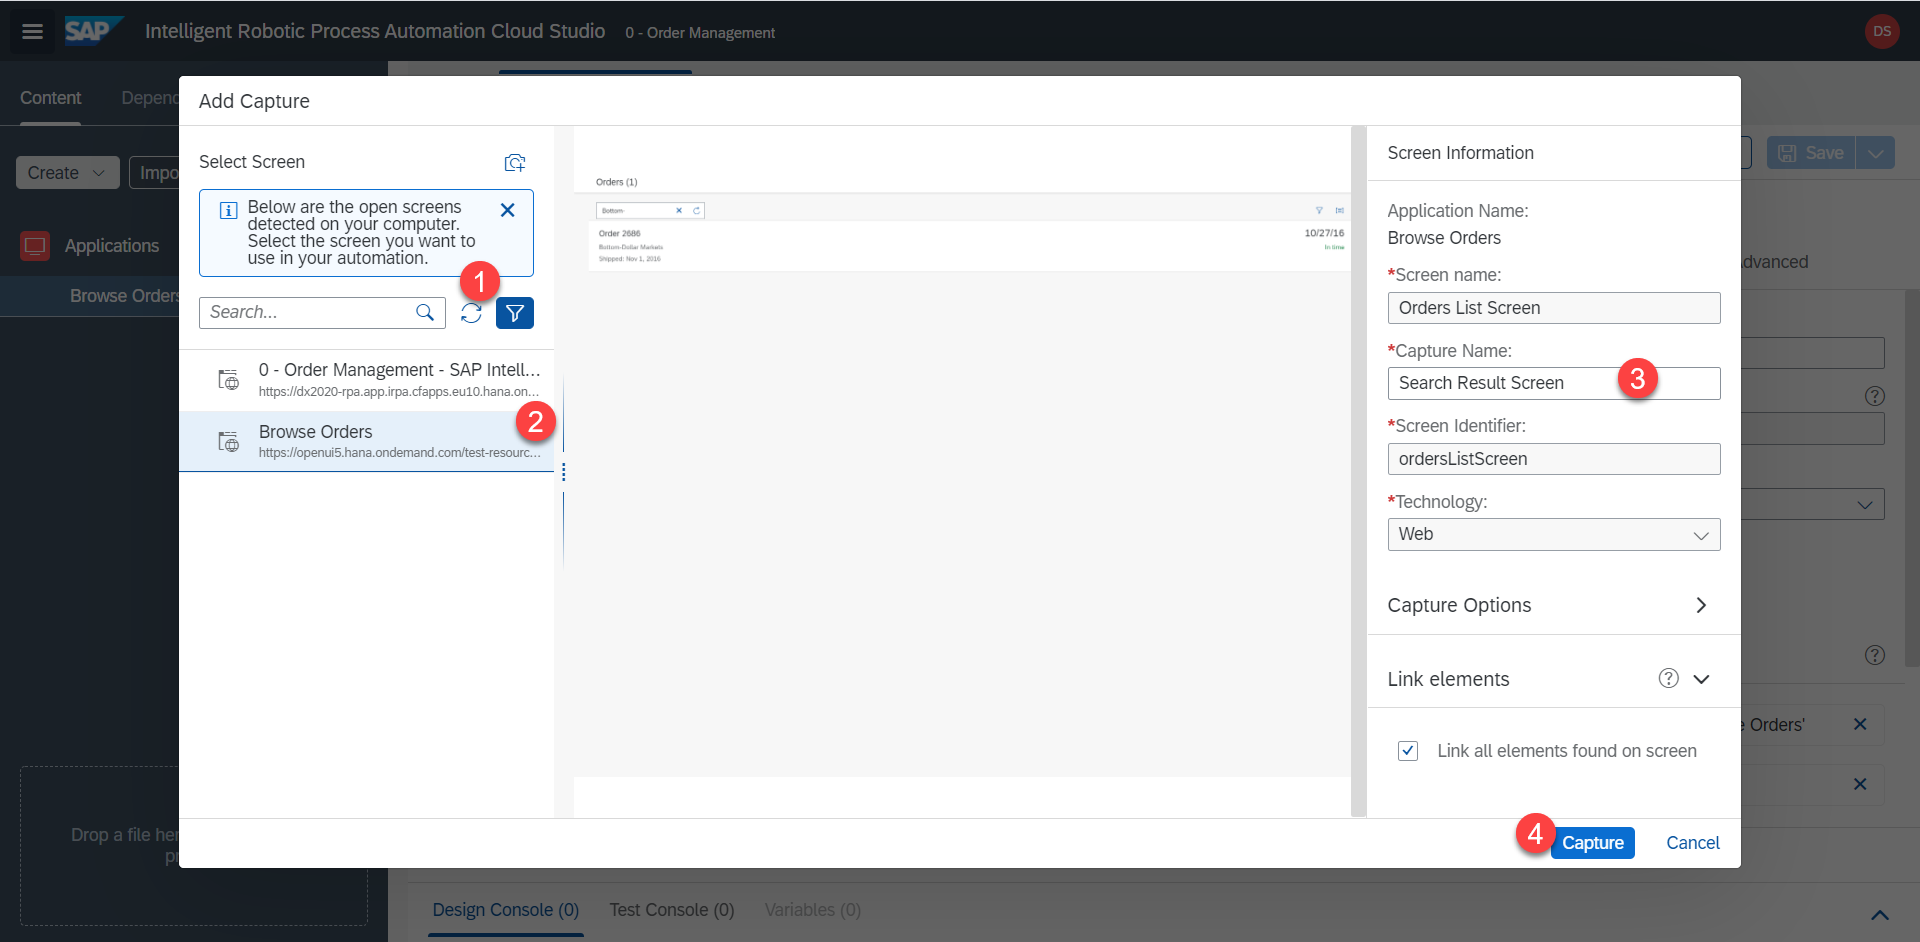
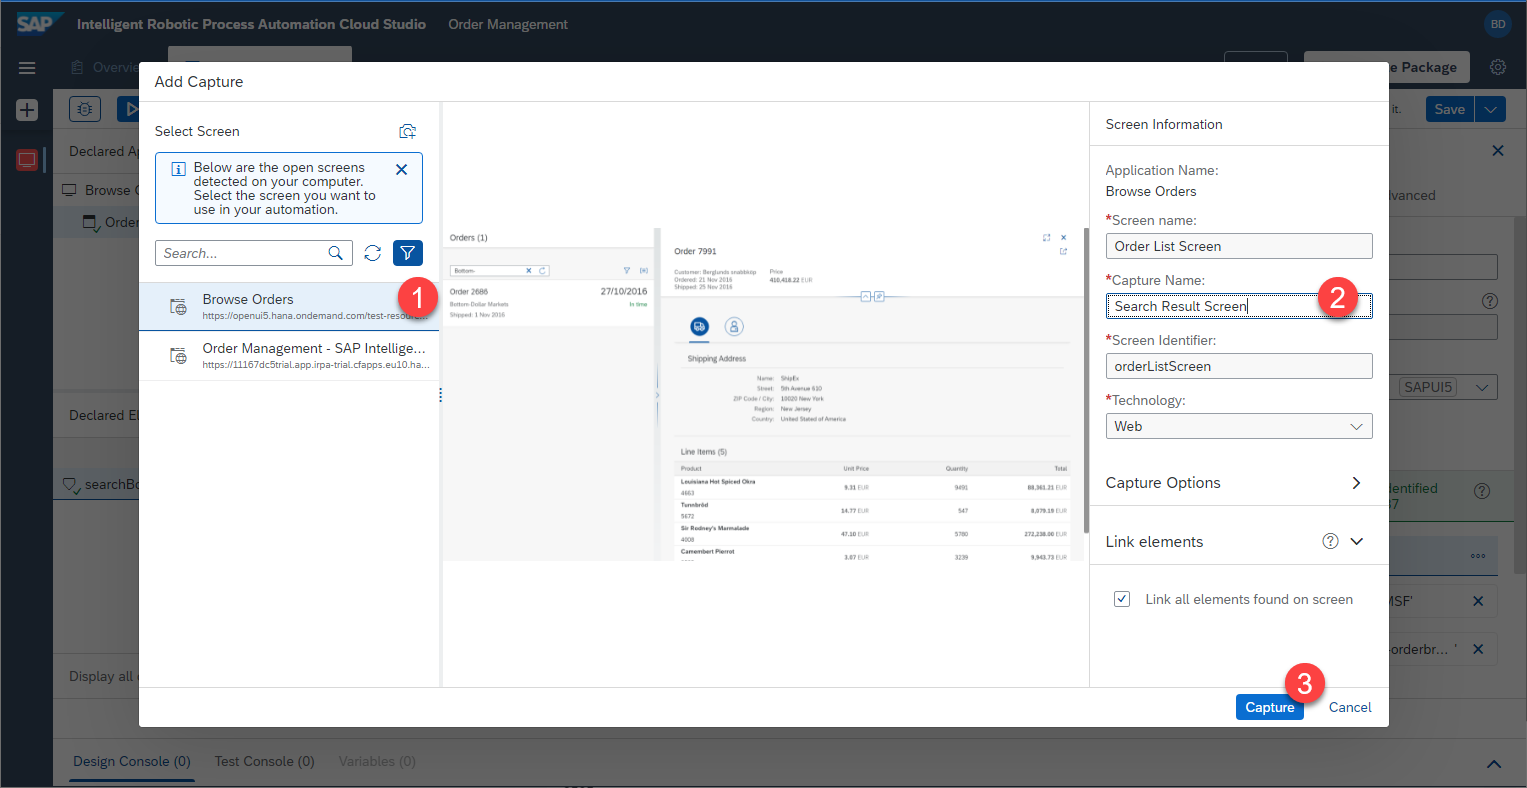
first+second screen

diff --git a/docs/second_screen.md b/docs/second_screen.md
@@ -4,7 +4,7 @@
 
 Next we will add the second screen from within the same UI5 app. This way the bot can recognize the results of a search
 
-1. Open the [UI5 app](https://openui5.hana.ondemand.com/test-resources/sap/m/demokit/orderbrowser/webapp/test/mockServer.html) is opened in a seperate window, and enter `Bottom-` in the search. Make sure the order `2686` is found. Keep the window open.
+1. Open the [UI5 app](https://openui5.hana.ondemand.com/test-resources/sap/m/demokit/orderbrowser/webapp/test/mockServer.html) is opened in a seperate window, and enter `Bottom-` in the search. Click on search icon. Make sure the order `2686` is found. Keep the window open.
 
 
 ![](images/0070_SearchScreenPreview.png)
@@ -14,9 +14,9 @@ Next we will add the second screen from within the same UI5 app. This way the bo
 
 ![](images/0080_AddCaptureToCurrentScreen.png)
 
-3. `Refresh` and Select the window with `Browse Orders`
+3. Select the window with `Browse Orders` (refresh if needed)
 
-4. Name the new capture, e.g. 
+4. Name the new capture, e.g.
 
 ```
 Search Result Screen
@@ -33,7 +33,7 @@ Search Result Screen
 
 2. Click on the list row in the preview. Make sure the whole row is selected, and not just single text
 
-3. Rename the element, e.g. 
+3. Rename the element, e.g.
 
 ```
 OrderFound
@@ -44,7 +44,7 @@ OrderFound
 ![](images/0091_SelectResultItem.png)
 
 
-We are going to adjust the criteria, so that the element can be recognized regardless of the order number. Currently RPA would be looking for a very specific list of criteria to find an element. These criteria can be found and changed under `criteria` section on the right.
+We are going to adjust the criteria, so that the element can be recognized regardless of the order number. Currently RPA would be looking for a very specific list of criteria to find an element. These criteria can be found and changed under `criteria` section on the right (scroll if needed).
 
 We will specifically look for the element containing `Order` as text.
 
@@ -52,9 +52,9 @@ We will specifically look for the element containing `Order` as text.
 
 ![](images/0100_ClickOnTextCriteria.png)
 
-6. A popup will be opened. Change the `operator` to `contains`. 
+6. A popup will be opened. Change the `operator` to `contains`.
 
-7. Change `value` to 
+7. Change `value` to
 
 ```
 Order
@@ -72,3 +72,5 @@ Order
 
 
 ![](images/0120_ResultTextContainsOrder.png)
+
+![](images/0121_ResultTextContainsOrder-final.png)

diff --git a/docs/first_screen.md b/docs/first_screen.md
@@ -5,18 +5,19 @@ Next, we will define the application which will be used in our automation. In ou
 
 ## Create application
 
-1. Make sure the [UI5 app](https://openui5.hana.ondemand.com/test-resources/sap/m/demokit/orderbrowser/webapp/test/mockServer.html) is opened in a seperate window, not just in a new tab. Desktop Agent should also be running and connected to the correct tenant.
+1. Make sure the [UI5 app](https://openui5.hana.ondemand.com/test-resources/sap/m/demokit/orderbrowser/webapp/test/mockServer.html) is opened in a separate window, not just in a new tab. Desktop Agent should also be running and connected to the correct tenant.
 
 2. Select `Create` > `Application`
 
 ![](images/0030_CreateApplication.png)
 
+4. Select (click) the window titled `Browse order`. This is our UI5 application. You should see
 
-3. Click on `refresh icon` multiple times to get the currently open windows
+![](images/0031_SelectApplication.png)
 
-4. Select the window titled `Browse order`. This is our UI5 application
+Note: If UI5 application (step 1 - Create application) is not opened in separate window, open it and click on `refresh icon` to get the currently open windows
 
-5. Give a name to the application. `Application name` E.g.
+5. Give a name to the application. `Application name` (see picture below) E.g.
 
 
 ```
@@ -42,9 +43,9 @@ Orders List Screen
 
 ## Define elements on first screen
 
-Next, we will define the only relevant element on the first screen --> `search box`. Our bot will search for the supplier in this search box, so we have to define this element. 
+Next, we will define the only relevant element on the first screen --> `search box`. Our bot will search for the supplier in this search box, so we have to define this element.
 
-1. To do this, click on the search box within the preview. 
+1. To do this, click on the search box within the preview.
 2. Name the search box element. E.g.
 
 ```
@@ -52,7 +53,7 @@ searchBox
 ```
 
 3. Make sure the element is uniquely recognized (green status)
-4. Don't forget to click on `declare element` to make sure this element is actually saved. 
+4. Don't forget to click on `declare element` to make sure this element is actually saved.
 5. The defined search box element will appear under `Declared elements` with a green status, meaning that the element has been successfully defined.
 
 ![](images/0060_SearchBoxCapture.png)

diff --git a/docs/README.md b/docs/README.md
@@ -12,7 +12,7 @@ In this hands-on we are going to automate the extraction of order data from a UI
 
 Before we start, please make sure you have
 - Setup the trial environment, as described in [this blog](https://blogs.sap.com/2021/03/22/sap-intelligent-rpa-2.0-onboarding-sap-business-technology-platform-trial-account/). You should have the Desktop Agent installed locally and have access to the Cloud Studio environment
-- You have the Excel file we are going to use. [Download here](/iRPA-OrderManagement/Demo_Procurement.xlsx ':ignore').
+- You have the Excel file we are going to use. [Download here](/Demo_Procurement.xlsx ':ignore').
 - Have access to the [UI5 app](https://openui5.hana.ondemand.com/test-resources/sap/m/demokit/orderbrowser/webapp/test/mockServer.html)
 
 
@@ -25,10 +25,10 @@ If you have any questions or get stuck, please let us know.
 
 ## Getting started
 
-We will develop the automation in multiple steps. We will:
+You will develop the automation in multiple steps. You will:
 1. Create a project
 2. Capture the application screen
 3. Define automation: on UI5 and Excel sides
 4. Test automation
 
-We will iteratively ensure that we are on the right track.
+Detailed step-by-step instructions will ensure that you are on the right track.
